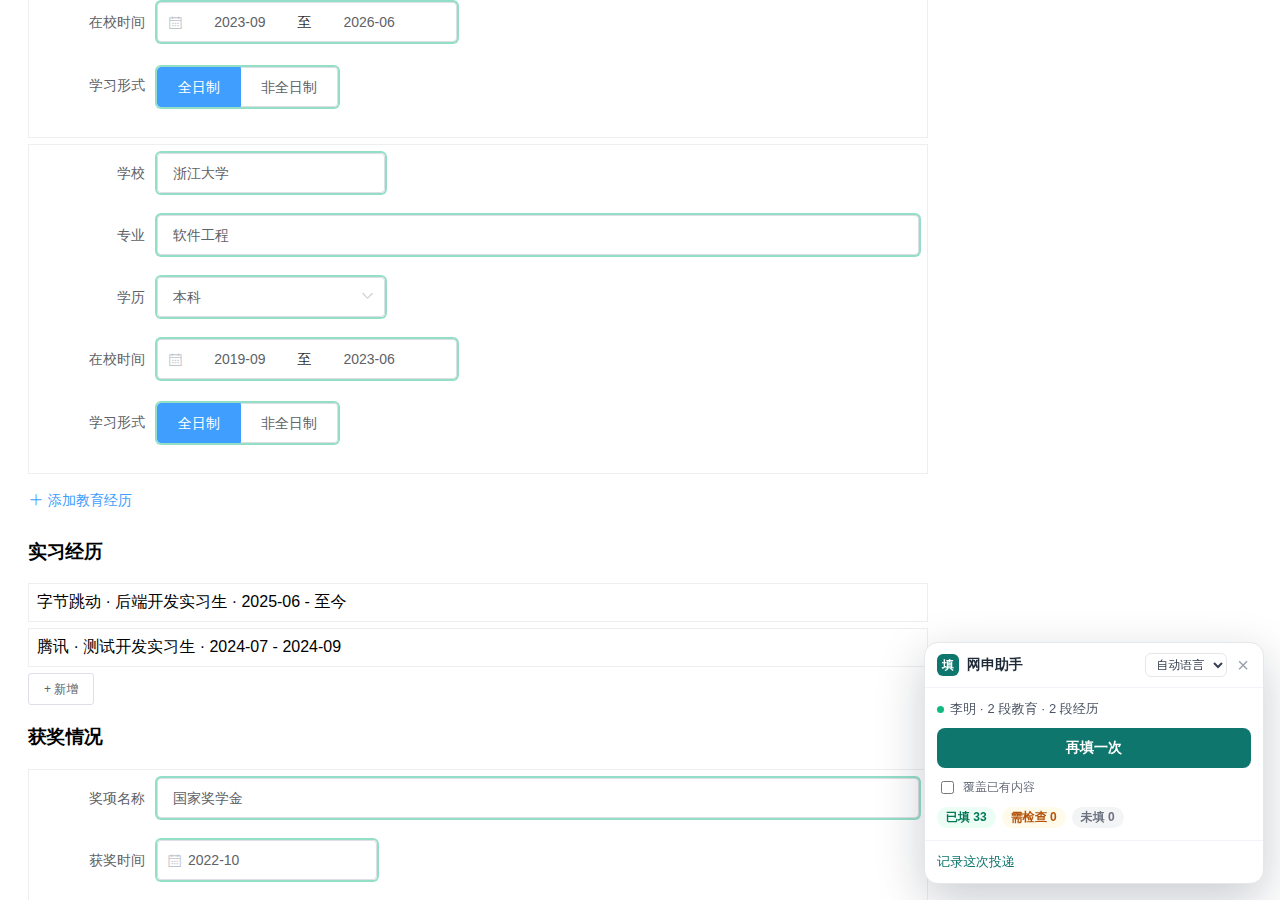
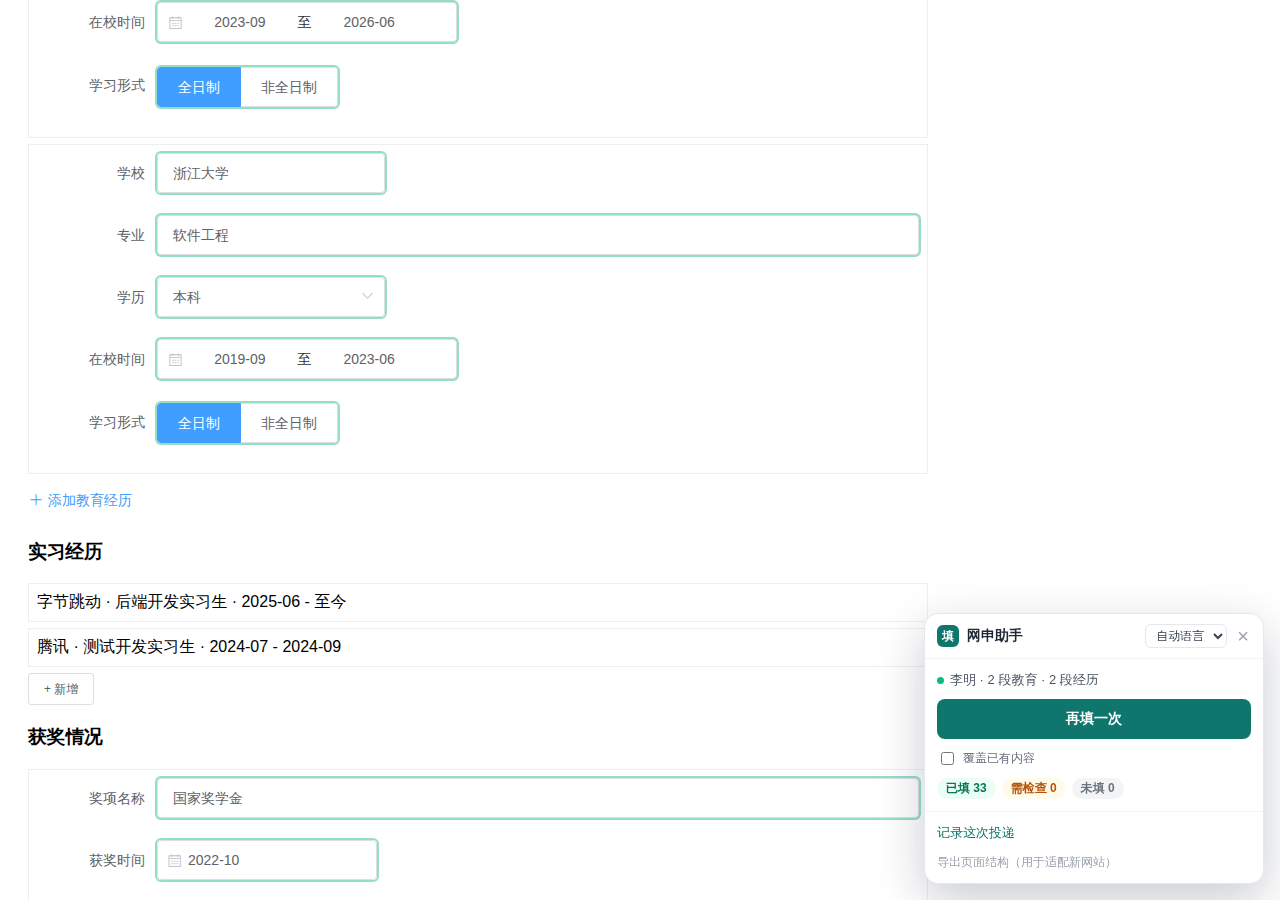
Add form-structure export for adapting new application sites
The panel can download the detected fields (labels, widget types, option
texts, how each was recognized) from every frame, without any values, so a
site like a bank's own application system can be reproduced as a test page.

Claude-Session: https://claude.ai/code/session_01GD1f8Q7tGAkbBBdWqw2ZGd

Changed region(s): [[0.7188, 0.6844, 1.0, 0.9644], [0.9062, 0.6844, 0.9375, 0.7467]]

diff --git a/extension/src/content/describe.ts b/extension/src/content/describe.ts
@@ -1,0 +1,58 @@
+import { emptyProfile, type ProfileData } from "../../../shared/profileSchema";
+import { textOf } from "../engine/dom";
+import { plan } from "../engine/engine";
+import { findHeadings } from "../engine/sections";
+
+const LIBRARY_PREFIXES = ["el-", "ant-", "ivu-", "layui-", "arco-", "t-", "van-", "n-", "semi-", "select2", "chosen", "mx-", "vxe-", "a-"];
+
+function classSummary(element: Element): string {
+  return (element.className?.toString?.() ?? "").split(/\s+/).filter(Boolean).slice(0, 4).join(" ").slice(0, 120);
+}
+
+/**
+ * Structure of the form on this frame, for adapting the engine to a new site.
+ * Contains labels, widget types and option texts — never the values typed into fields.
+ */
+export function describeFrame(profile: ProfileData | null) {
+  const { planned } = plan(document, { profile: profile ?? emptyProfile() });
+  const libraries = new Map<string, number>();
+  document.querySelectorAll("[class]").forEach((element) => {
+    for (const name of (element.className?.toString?.() ?? "").split(/\s+/)) {
+      const prefix = LIBRARY_PREFIXES.find((candidate) => name.startsWith(candidate));
+      if (prefix) libraries.set(prefix, (libraries.get(prefix) ?? 0) + 1);
+    }
+  });
+  const addButtons = Array.from(document.querySelectorAll("button, a, [role=button], span"))
+    .map((element) => textOf(element, 30))
+    .filter((text) => /^(\+|＋)|添加|新增|add/i.test(text) && text.length <= 24);
+  return {
+    url: `${location.origin}${location.pathname}${location.hash}`,
+    title: document.title.slice(0, 120),
+    libraries: Object.fromEntries(libraries),
+    headings: findHeadings(document.body).map((heading) => ({ text: textOf(heading.element, 40), section: heading.section, nav: heading.nav })),
+    addButtons: Array.from(new Set(addButtons)).slice(0, 30),
+    controls: planned.map((item) => {
+      const input = item.control.input as HTMLInputElement | undefined;
+      const options =
+        input instanceof HTMLSelectElement
+          ? Array.from(input.options).map((option) => (option.textContent ?? "").trim()).slice(0, 40)
+          : item.control.members?.map((member) => textOf(member.closest("label") ?? member.parentElement, 30)).slice(0, 20);
+      return {
+        kind: item.control.kind,
+        label: item.info.label,
+        placeholder: item.info.placeholder,
+        identifiers: item.info.identifiers.slice(0, 80),
+        tag: item.control.root.tagName.toLowerCase(),
+        classes: classSummary(item.control.root),
+        containerClasses: item.info.container ? classSummary(item.info.container) : "",
+        inputType: input?.type,
+        readOnly: input?.readOnly || undefined,
+        section: item.context.section,
+        recognizedAs: item.target?.scope === "field" ? `${item.target.section}.${item.target.key}` : item.target?.scope ?? null,
+        score: item.target ? Math.round(item.target.score) : undefined,
+        entry: item.entry,
+        options,
+      };
+    }),
+  };
+}

diff --git a/extension/src/content/panel.ts b/extension/src/content/panel.ts
@@ -335,11 +335,24 @@ export class Panel {
     ].filter(Boolean) as Node[];
   }
 
+  /** Downloads the form structure (labels and widget types, no values) for adapting a new site. */
+  private async exportStructure(): Promise<void> {
+    const frames = await send<unknown[]>({ type: "describe-all" });
+    const blob = new Blob([JSON.stringify({ exportedAt: new Date().toISOString(), frames }, null, 2)], { type: "application/json" });
+    const link = h("a", { href: URL.createObjectURL(blob), download: `form-structure-${location.hostname}.json` });
+    this.shadow?.append(link);
+    link.click();
+    link.remove();
+    this.message = "已导出页面结构（只有栏位名称和组件类型，不含你填写的内容）。把这个文件发给开发者即可适配这个网站。";
+    this.render();
+  }
+
   private footer(): Node {
     const learnedCount = this.learned.size;
     return h(
       "div",
       { className: "footer" },
+      h("button", { className: "link small", title: "导出栏位名称和组件类型，不含你填写的内容", onClick: () => void this.exportStructure() }, "导出页面结构（用于适配新网站）"),
       learnedCount > 0 && h("button", { className: "secondary", onClick: () => void this.saveLearned() }, `记住我填的 ${learnedCount} 条答案`),
       this.submitted && !this.recorded
         ? h(

diff --git a/extension/src/content/index.ts b/extension/src/content/index.ts
@@ -1,6 +1,7 @@
 import { looksLikeApplicationForm } from "../engine/discover";
 import { isVisible } from "../engine/dom";
-import { send, type ExtensionSettings, type FrameCommand } from "../messages";
+import { send, type ExtensionSettings, type FillContext, type FrameCommand } from "../messages";
+import { describeFrame } from "./describe";
 import { clearMarks, fillFrame, fillOne, focusField, setText, watchSubmit } from "./frame";
 import { Panel } from "./panel";
 
@@ -30,6 +31,11 @@ if (!window.__jobAutofillLoaded) {
       case "set-frame-text":
         sendResponse(setText(message.id, message.text));
         return false;
+      case "describe-frame":
+        send<FillContext>({ type: "get-context", host: location.host })
+          .then((context) => sendResponse(describeFrame(context?.profile ?? null)))
+          .catch(() => sendResponse(describeFrame(null)));
+        return true;
       case "clear-frame-marks":
         clearMarks();
         sendResponse(true);

diff --git a/extension/src/messages.ts b/extension/src/messages.ts
@@ -55,6 +55,7 @@ export type Request =
   | { type: "fill-one"; frameId: number; id: string; target: string; lang: Lang; remember: boolean; label: string }
   | { type: "focus-field"; frameId: number; id: string }
   | { type: "clear-marks" }
+  | { type: "describe-all" }
   | { type: "save-answers"; answers: LearnedAnswer[] }
   | { type: "record-application"; job: JobInfo; note?: string }
   | { type: "ai-answer"; frameId: number; id: string; question: string; lang: Lang; job: JobInfo }
@@ -74,6 +75,7 @@ export type FrameCommand =
   | { type: "focus-frame-field"; id: string }
   | { type: "set-frame-text"; id: string; text: string }
   | { type: "clear-frame-marks" }
+  | { type: "describe-frame" }
   | { type: "learned"; answer: LearnedAnswer; key: string }
   | { type: "submitted" }
   | { type: "open-panel"; fill?: boolean };

diff --git a/extension/src/background.ts b/extension/src/background.ts
@@ -118,6 +118,12 @@ async function handle(message: Request, sender: chrome.runtime.MessageSender): P
     case "focus-field":
       if (tabId !== undefined) await sendToFrame(tabId, message.frameId, { type: "focus-frame-field", id: message.id });
       return true;
+    case "describe-all": {
+      if (tabId === undefined) return [];
+      const frames = (await chrome.webNavigation.getAllFrames({ tabId })) ?? [{ frameId: 0 }];
+      const described = await Promise.all(frames.map(async (frame) => ({ frameId: frame.frameId, ...((await sendToFrame<object>(tabId, frame.frameId, { type: "describe-frame" })) ?? {}) })));
+      return described.filter((frame) => "controls" in frame);
+    }
     case "clear-marks":
       if (tabId !== undefined) {
         const frames = (await chrome.webNavigation.getAllFrames({ tabId })) ?? [];

diff --git a/extension/src/content/panelStyles.ts b/extension/src/content/panelStyles.ts
@@ -25,6 +25,7 @@ header { display: flex; align-items: center; gap: 8px; padding: 10px 12px; borde
 .big { padding: 11px 12px; font-size: 14px; }
 .secondary { background: #f0fdfa; color: #0f766e; border: 1px solid #99f6e4; border-radius: 8px; padding: 7px 10px; font-weight: 600; width: 100%; }
 .link { background: none; border: none; color: #0f766e; padding: 2px 0; text-align: left; }
+.link.small { color: #9ca3af; font-size: 12px; order: 9; }
 .check { display: flex; align-items: center; gap: 6px; color: #6b7280; font-size: 12px; }
 .message { background: #f8fafc; border-radius: 8px; padding: 8px 10px; color: #334155; }
 .note { color: #92400e; font-size: 12px; }

diff --git a/docs/USER_MANUAL.zh-en.md b/docs/USER_MANUAL.zh-en.md
@@ -52,7 +52,8 @@
 ### 填不好怎么办
 
 - 某个栏位总认错：在面板里手动选一次，本网站以后都会记住。
-- 某个下拉框打不开或选不中：面板里会列出它的可选项，手动选一下即可；欢迎把页面结构加到 `extension/test/fixtures/` 做成测试用例。
+- 某个下拉框打不开或选不中：面板里会列出它的可选项，手动选一下即可。
+- 想让插件彻底适配某个网站：在那个网申页面打开面板，点底部「导出页面结构（用于适配新网站）」，会下载一个 `form-structure-网站名.json`。里面只有栏位名称、组件类型和下拉选项，**不包含你填写的任何内容**。把它发给开发者，就能照着做一个测试页把这个网站调好。
 
 ## 4. 投递记录
 
